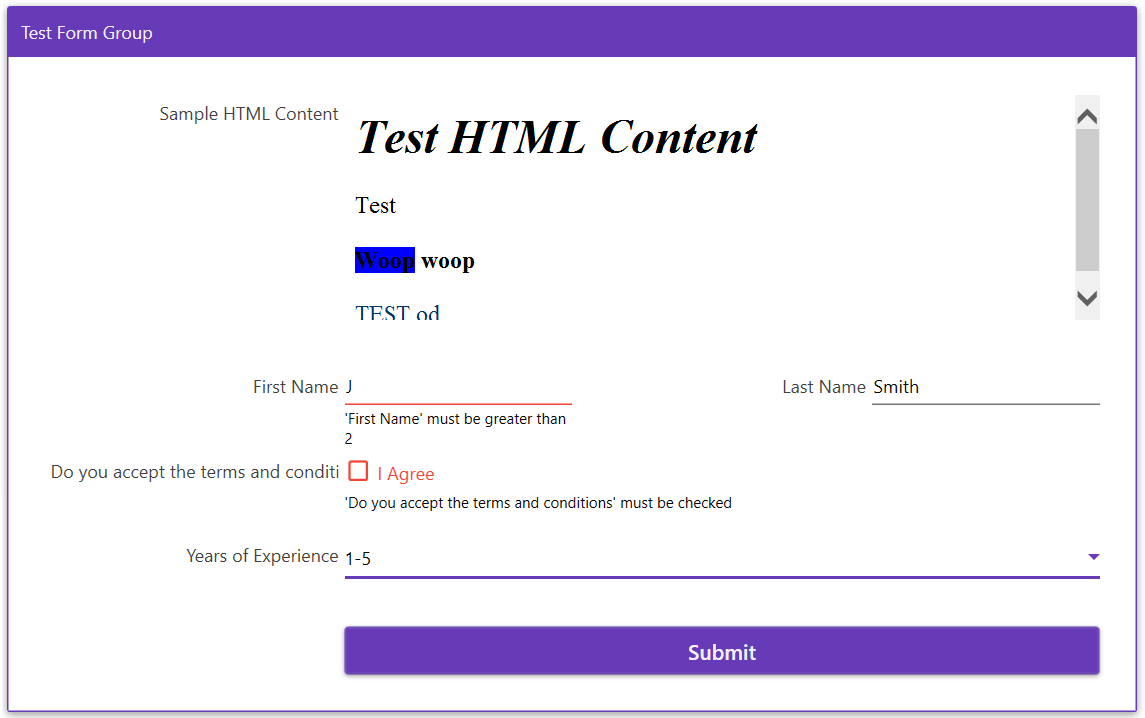
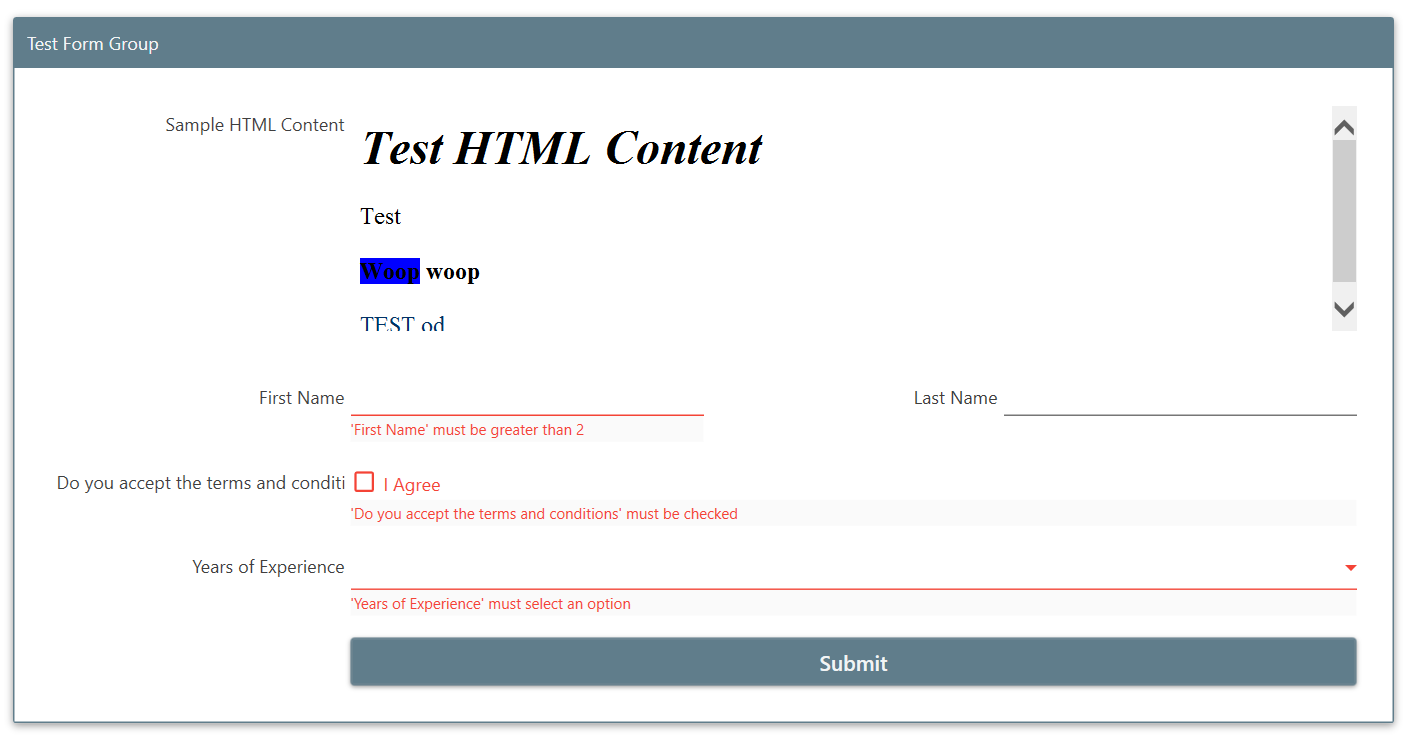
Updated Wpf Form Style

diff --git a/Forms.Wpf/Views/Designer/FormGroupSelectorView.xaml b/Forms.Wpf/Views/Designer/FormGroupSelectorView.xaml
@@ -8,30 +8,27 @@
              xmlns:behaviours="clr-namespace:Aptacode.Forms.Wpf.Mvvm.Behaviours"
              mc:Ignorable="d"
              d:DesignHeight="450" d:DesignWidth="800">
-    <Border BorderThickness="2" BorderBrush="Black">
-        <ListBox Padding="5" ItemsSource="{Binding FormViewModel.Groups}" SelectedItem="{Binding SelectedGroup}"
-                 HorizontalContentAlignment="Stretch">
-            <ListBox.ItemTemplate>
-                <DataTemplate>
-                    <DockPanel DockPanel.Dock="Bottom" LastChildFill="True" Background="Transparent">
-                        <Button DockPanel.Dock="Right" Content="Remove"
-                                Command="{Binding Path=DataContext.RemoveCommand, RelativeSource={RelativeSource AncestorType={x:Type local:FormGroupSelectorView}}}" />
-                        <TextBox Text="{Binding Label, Mode=TwoWay, UpdateSourceTrigger=PropertyChanged}"
-                                 Background="Transparent" BorderBrush="Transparent">
-                            <i:Interaction.Behaviors>
-                                <behaviours:DoubleClickTextBoxBehaviour />
-                            </i:Interaction.Behaviors>
+    <ListBox Padding="5" ItemsSource="{Binding FormViewModel.Groups}" SelectedItem="{Binding SelectedGroup}"
+             HorizontalContentAlignment="Stretch">
+        <ListBox.ItemTemplate>
+            <DataTemplate>
+                <DockPanel DockPanel.Dock="Bottom" LastChildFill="True" Background="Transparent">
+                    <Button DockPanel.Dock="Right" Content="Remove"
+                            Command="{Binding Path=DataContext.RemoveCommand, RelativeSource={RelativeSource AncestorType={x:Type local:FormGroupSelectorView}}}" />
+                    <TextBox Text="{Binding Label, Mode=TwoWay, UpdateSourceTrigger=PropertyChanged}"
+                             Background="Transparent" BorderBrush="Transparent">
+                        <i:Interaction.Behaviors>
+                            <behaviours:DoubleClickTextBoxBehaviour />
+                        </i:Interaction.Behaviors>
 
-                            <TextBox.InputBindings>
-                                <KeyBinding
-                                    Command="{Binding Path=DataContext.UpdateCommand, RelativeSource={RelativeSource AncestorType={x:Type local:FormGroupSelectorView}}}"
-                                    Key="Enter" />
-                            </TextBox.InputBindings>
-                        </TextBox>
-                    </DockPanel>
-                </DataTemplate>
-            </ListBox.ItemTemplate>
-        </ListBox>
-
-    </Border>
+                        <TextBox.InputBindings>
+                            <KeyBinding
+                                Command="{Binding Path=DataContext.UpdateCommand, RelativeSource={RelativeSource AncestorType={x:Type local:FormGroupSelectorView}}}"
+                                Key="Enter" />
+                        </TextBox.InputBindings>
+                    </TextBox>
+                </DockPanel>
+            </DataTemplate>
+        </ListBox.ItemTemplate>
+    </ListBox>
 </UserControl>

diff --git a/Forms.Wpf/Views/Designer/FormElementSelectorView.xaml b/Forms.Wpf/Views/Designer/FormElementSelectorView.xaml
@@ -8,30 +8,27 @@
              xmlns:behaviours="clr-namespace:Aptacode.Forms.Wpf.Mvvm.Behaviours"
              mc:Ignorable="d"
              d:DesignHeight="450" d:DesignWidth="800">
-    <Border BorderThickness="2" BorderBrush="Black">
-        <ListBox Padding="5" ItemsSource="{Binding Elements}" SelectedItem="{Binding SelectedElement}"
-                 HorizontalContentAlignment="Stretch">
-            <ListBox.ItemTemplate>
-                <DataTemplate>
-                    <DockPanel DockPanel.Dock="Bottom" LastChildFill="True" Background="Transparent">
-                        <Button DockPanel.Dock="Right" Content="Remove"
-                                Command="{Binding Path=DataContext.RemoveCommand, RelativeSource={RelativeSource AncestorType={x:Type local:FormElementSelectorView}}}" />
-                        <TextBox Text="{Binding Label, Mode=TwoWay, UpdateSourceTrigger=PropertyChanged}"
-                                 Background="Transparent" BorderBrush="Transparent">
-                            <i:Interaction.Behaviors>
-                                <behaviours:DoubleClickTextBoxBehaviour />
-                            </i:Interaction.Behaviors>
+    <ListBox Padding="5" ItemsSource="{Binding Elements}" SelectedItem="{Binding SelectedElement}"
+             HorizontalContentAlignment="Stretch">
+        <ListBox.ItemTemplate>
+            <DataTemplate>
+                <DockPanel DockPanel.Dock="Bottom" LastChildFill="True" Background="Transparent">
+                    <Button DockPanel.Dock="Right" Content="Remove"
+                            Command="{Binding Path=DataContext.RemoveCommand, RelativeSource={RelativeSource AncestorType={x:Type local:FormElementSelectorView}}}" />
+                    <TextBox Text="{Binding Label, Mode=TwoWay, UpdateSourceTrigger=PropertyChanged}"
+                             Background="Transparent" BorderBrush="Transparent">
+                        <i:Interaction.Behaviors>
+                            <behaviours:DoubleClickTextBoxBehaviour />
+                        </i:Interaction.Behaviors>
 
-                            <TextBox.InputBindings>
-                                <KeyBinding
-                                    Command="{Binding Path=DataContext.UpdateCommand, RelativeSource={RelativeSource AncestorType={x:Type local:FormElementSelectorView}}}"
-                                    Key="Enter" />
-                            </TextBox.InputBindings>
-                        </TextBox>
-                    </DockPanel>
-                </DataTemplate>
-            </ListBox.ItemTemplate>
-        </ListBox>
-
-    </Border>
+                        <TextBox.InputBindings>
+                            <KeyBinding
+                                Command="{Binding Path=DataContext.UpdateCommand, RelativeSource={RelativeSource AncestorType={x:Type local:FormElementSelectorView}}}"
+                                Key="Enter" />
+                        </TextBox.InputBindings>
+                    </TextBox>
+                </DockPanel>
+            </DataTemplate>
+        </ListBox.ItemTemplate>
+    </ListBox>
 </UserControl>

diff --git a/Forms.Wpf/Views/Designer/FormDesignerView.xaml b/Forms.Wpf/Views/Designer/FormDesignerView.xaml
@@ -6,8 +6,25 @@
              xmlns:local="clr-namespace:Aptacode.Forms.Wpf.Views.Designer"
              xmlns:i="http://schemas.microsoft.com/expression/2010/interactivity"
              xmlns:behaviours="clr-namespace:Aptacode.Forms.Wpf.Mvvm.Behaviours"
+             xmlns:materialDesign="http://materialdesigninxaml.net/winfx/xaml/themes"
              mc:Ignorable="d"
              d:DesignHeight="450" d:DesignWidth="800">
+    <UserControl.Resources>
+        <ResourceDictionary>
+            <ResourceDictionary.MergedDictionaries>
+                <materialDesign:BundledTheme BaseTheme="Light" PrimaryColor="Blue" SecondaryColor="DeepOrange" />
+                <ResourceDictionary
+                    Source="pack://application:,,,/MaterialDesignThemes.Wpf;component/Themes/MaterialDesignTheme.Light.xaml" />
+                <ResourceDictionary
+                    Source="pack://application:,,,/MaterialDesignThemes.Wpf;component/Themes/MaterialDesignTheme.Defaults.xaml" />
+                <ResourceDictionary
+                    Source="pack://application:,,,/MaterialDesignColors;component/Themes/Recommended/Primary/materialdesigncolor.bluegrey.xaml" />
+                <ResourceDictionary
+                    Source="pack://application:,,,/MaterialDesignColors;component/Themes/Recommended/Accent/MaterialDesignColor.DeepOrange.xaml" />
+            </ResourceDictionary.MergedDictionaries>
+        </ResourceDictionary>
+    </UserControl.Resources>
+
     <Grid>
         <Grid.ColumnDefinitions>
             <ColumnDefinition />
@@ -15,9 +32,18 @@
             <ColumnDefinition />
         </Grid.ColumnDefinitions>
 
-        <local:FormGroupSelectorView Grid.Column="0" DataContext="{Binding FormGroupSelectorViewModel}" />
-        <local:FormRowSelectorView Grid.Column="1" DataContext="{Binding FormRowSelectorViewModel}" />
-        <local:FormElementSelectorView Grid.Column="2" DataContext="{Binding FormElementSelectorViewModel}" />
+        <GroupBox Header="Groups" Grid.Column="0" Margin="8">
+            <local:FormGroupSelectorView  DataContext="{Binding FormGroupSelectorViewModel}" />
+        </GroupBox>
+
+        <GroupBox Header="Rows" Grid.Column="1" Margin="8">
+            <local:FormRowSelectorView  DataContext="{Binding FormRowSelectorViewModel}" />
+        </GroupBox>
+
+        <GroupBox Header="Elements" Grid.Column="2" Margin="8">
+            <local:FormElementSelectorView  DataContext="{Binding FormElementSelectorViewModel}" />
+        </GroupBox>
+
 
     </Grid>
 </UserControl>

diff --git a/Forms.Wpf/Views/Designer/FormRowSelectorView.xaml b/Forms.Wpf/Views/Designer/FormRowSelectorView.xaml
@@ -8,19 +8,16 @@
              xmlns:behaviours="clr-namespace:Aptacode.Forms.Wpf.Mvvm.Behaviours"
              mc:Ignorable="d"
              d:DesignHeight="450" d:DesignWidth="800">
-    <Border BorderThickness="2" BorderBrush="Black">
-        <ListBox Padding="5" ItemsSource="{Binding FormGroup.Rows}" SelectedItem="{Binding SelectedRow}"
-                 HorizontalContentAlignment="Stretch">
-            <ListBox.ItemTemplate>
-                <DataTemplate>
-                    <DockPanel DockPanel.Dock="Bottom" LastChildFill="True" Background="Transparent">
-                        <Button DockPanel.Dock="Right" Content="Remove"
-                                Command="{Binding Path=DataContext.RemoveCommand, RelativeSource={RelativeSource AncestorType={x:Type local:FormRowSelectorView}}}" />
-                        <Label Content="Row"/>
-                    </DockPanel>
-                </DataTemplate>
-            </ListBox.ItemTemplate>
-        </ListBox>
-
-    </Border>
+    <ListBox Padding="5" ItemsSource="{Binding FormGroup.Rows}" SelectedItem="{Binding SelectedRow}"
+             HorizontalContentAlignment="Stretch">
+        <ListBox.ItemTemplate>
+            <DataTemplate>
+                <DockPanel DockPanel.Dock="Bottom" LastChildFill="True" Background="Transparent">
+                    <Button DockPanel.Dock="Right" Content="Remove"
+                            Command="{Binding Path=DataContext.RemoveCommand, RelativeSource={RelativeSource AncestorType={x:Type local:FormRowSelectorView}}}" />
+                    <Label Content="Row"/>
+                </DockPanel>
+            </DataTemplate>
+        </ListBox.ItemTemplate>
+    </ListBox>
 </UserControl>

diff --git a/Forms.WPF.Demo/MainWindow.xaml b/Forms.WPF.Demo/MainWindow.xaml
@@ -5,8 +5,25 @@
         xmlns:mc="http://schemas.openxmlformats.org/markup-compatibility/2006"
         xmlns:views="clr-namespace:Aptacode.Forms.Wpf.Views;assembly=Aptacode.Forms.Wpf"
         xmlns:designer="clr-namespace:Aptacode.Forms.Wpf.Views.Designer;assembly=Aptacode.Forms.Wpf"
+        xmlns:materialDesign="http://materialdesigninxaml.net/winfx/xaml/themes"
         mc:Ignorable="d"
         Title="MainWindow" Height="1080" Width="1920">
+
+    <Window.Resources>
+        <ResourceDictionary>
+            <ResourceDictionary.MergedDictionaries>
+                <materialDesign:BundledTheme BaseTheme="Light" PrimaryColor="Blue" SecondaryColor="DeepOrange" />
+                <ResourceDictionary
+                    Source="pack://application:,,,/MaterialDesignThemes.Wpf;component/Themes/MaterialDesignTheme.Light.xaml" />
+                <ResourceDictionary
+                    Source="pack://application:,,,/MaterialDesignThemes.Wpf;component/Themes/MaterialDesignTheme.Defaults.xaml" />
+                <ResourceDictionary
+                    Source="pack://application:,,,/MaterialDesignColors;component/Themes/Recommended/Primary/materialdesigncolor.bluegrey.xaml" />
+                <ResourceDictionary
+                    Source="pack://application:,,,/MaterialDesignColors;component/Themes/Recommended/Accent/MaterialDesignColor.DeepOrange.xaml" />
+            </ResourceDictionary.MergedDictionaries>
+        </ResourceDictionary>
+    </Window.Resources>
 
     <Grid>
         <Grid.ColumnDefinitions>

diff --git a/Forms.Wpf/Views/FormView.xaml b/Forms.Wpf/Views/FormView.xaml
@@ -14,15 +14,15 @@
     <UserControl.Resources>
         <ResourceDictionary>
             <ResourceDictionary.MergedDictionaries>
-                <materialDesign:BundledTheme BaseTheme="Light" PrimaryColor="DeepPurple" SecondaryColor="Lime" />
+                <materialDesign:BundledTheme BaseTheme="Light" PrimaryColor="Blue" SecondaryColor="DeepOrange" />
                 <ResourceDictionary
                     Source="pack://application:,,,/MaterialDesignThemes.Wpf;component/Themes/MaterialDesignTheme.Light.xaml" />
                 <ResourceDictionary
                     Source="pack://application:,,,/MaterialDesignThemes.Wpf;component/Themes/MaterialDesignTheme.Defaults.xaml" />
                 <ResourceDictionary
-                    Source="pack://application:,,,/MaterialDesignColors;component/Themes/Recommended/Primary/MaterialDesignColor.DeepPurple.xaml" />
+                    Source="pack://application:,,,/MaterialDesignColors;component/Themes/Recommended/Primary/materialdesigncolor.bluegrey.xaml" />
                 <ResourceDictionary
-                    Source="pack://application:,,,/MaterialDesignColors;component/Themes/Recommended/Accent/MaterialDesignColor.Lime.xaml" />
+                    Source="pack://application:,,,/MaterialDesignColors;component/Themes/Recommended/Accent/MaterialDesignColor.DeepOrange.xaml" />
             </ResourceDictionary.MergedDictionaries>
         </ResourceDictionary>
     </UserControl.Resources>

diff --git a/README.md b/README.md
@@ -2,7 +2,7 @@
 
 Create cross platform forms using C# .net
 
-  <img width="572" height="360" src="https://github.com/Timmoth/Aptacode.Forms/blob/master/Resources/demo.png">
+  <img width="703" height="373" src="https://github.com/Timmoth/Aptacode.Forms/blob/master/Resources/demo.png">
 
 
 ### ToDos
